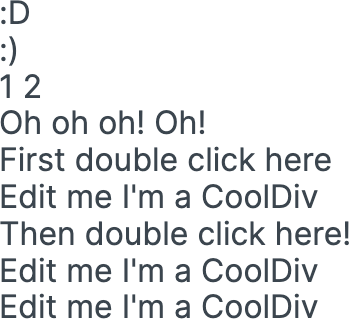
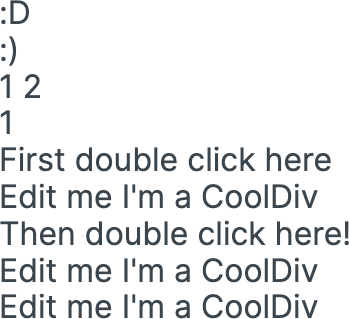
[ecu] Edit text on component App

Changed region(s): [[0.2865, 0.3386, 0.6017, 0.4232], [0.0, 0.3386, 0.1146, 0.4232], [0.1433, 0.3386, 0.2579, 0.4232]]

diff --git a/app/src/App.tsx b/app/src/App.tsx
@@ -44,7 +44,7 @@ function App(props: AppPropsType) {
       </Div>
       <Text data-ecu="dZL1Xh1Cuv:1">:)</Text>
       <Text data-ecu="dZL1Xh1Cuv:2">{'1\n2'}</Text>
-      <Text data-ecu="dZL1Xh1Cuv:3">1</Text>
+      <Text data-ecu="dZL1Xh1Cuv:3" />
       <Text data-ecu="dZL1Xh1Cuv:4">First double click here</Text>
       <CoolDiv />
       <Text data-ecu="dZL1Xh1Cuv:5">Then double click here!</Text>
